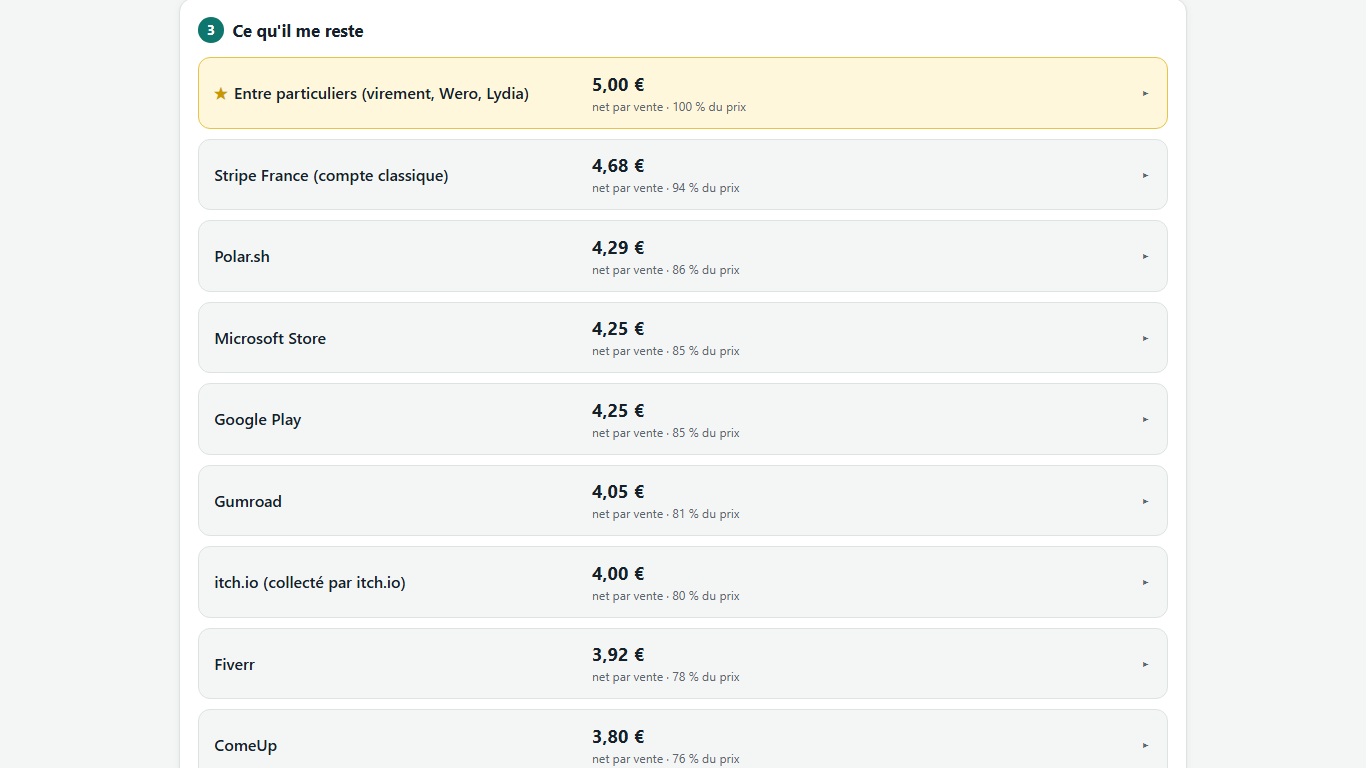
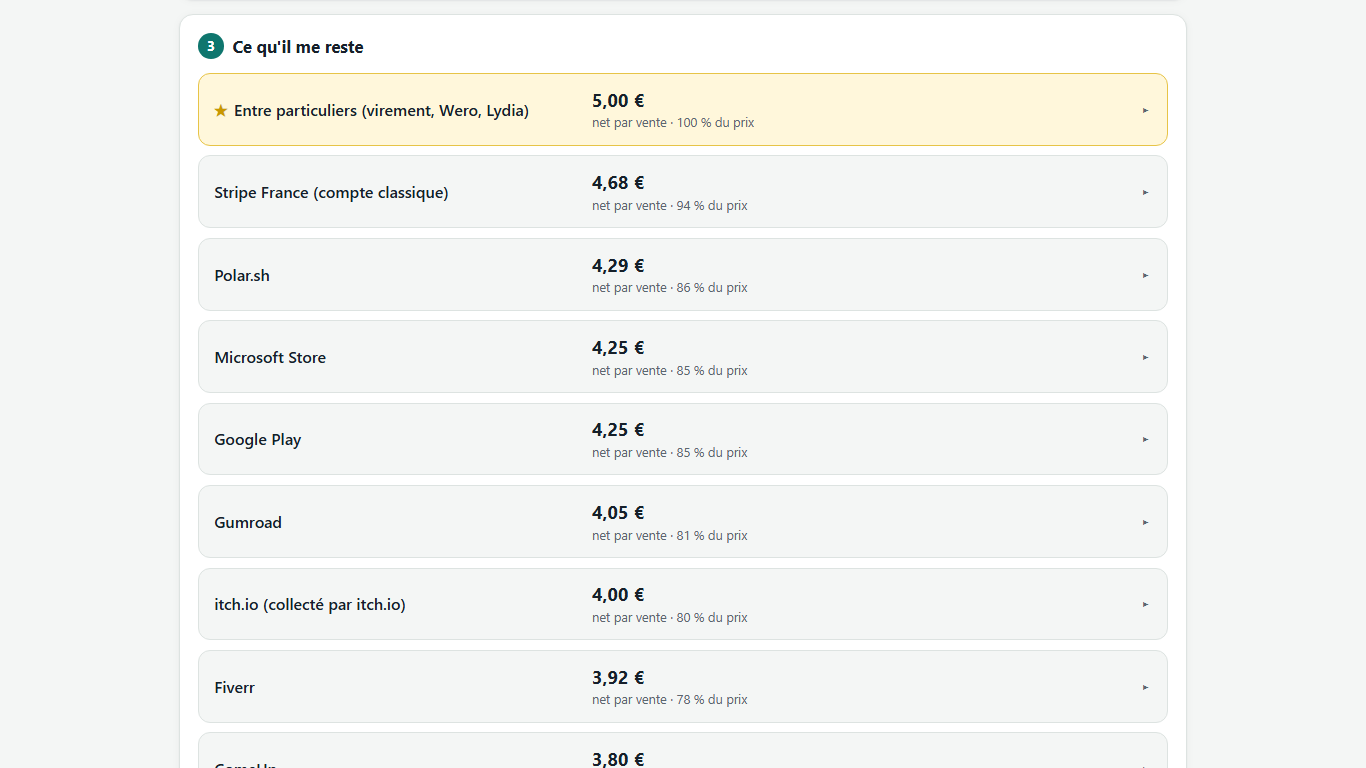
v2026-10-02b : correctifs après tests de bout en bout
- [hidden] respecté malgré les classes d'affichage (boutons d'achat masqués en édition complète, champs mensuels masqués en édition gratuite)
- build.py : vide docs/ sans le supprimer (serveur local)
- avertissement prix trop bas, rappel du volume annuel sous les résultats
- attributs name sur tous les champs, cibles tactiles et polices mobiles agrandies, résumé sur une colonne en mobile

diff --git a/app/app.js b/app/app.js
@@ -105,7 +105,7 @@
     const r = rates();
     const html = r.platforms.filter((p) => state.selected.includes(p.id) && (p.options || []).length).map((p) => `
       <div class="option-row"><strong>${esc(p.name)}</strong> ${p.options.map((o) => `
-        <label><input type="checkbox" data-platform="${p.id}" data-option="${o.id}" ${state.options[p.id][o.id] ? 'checked' : ''}> ${esc(o.label)}</label>`).join('')}</div>`).join('');
+        <label><input type="checkbox" name="opt-${p.id}-${o.id}" data-platform="${p.id}" data-option="${o.id}" ${state.options[p.id][o.id] ? 'checked' : ''}> ${esc(o.label)}</label>`).join('')}</div>`).join('');
     $('platformOptions').innerHTML = html;
     $('platformOptions').querySelectorAll('input').forEach((inp) => inp.addEventListener('change', () => {
       state.options[inp.dataset.platform][inp.dataset.option] = inp.checked; renderAll();
@@ -175,6 +175,7 @@
       if (p.withdrawal.minimum && C.toEur(p.withdrawal.minimum, p.withdrawal.minimumCurrency, r.usdToEur) > (monthly ? m.received : s.received) && (monthly ? m.received : s.received) > 0) {
         warn.push(`Seuil de retrait ${p.withdrawal.minimum} ${p.withdrawal.minimumCurrency === 'USD' ? '$' : '€'} : l'argent attend d'atteindre le seuil.`);
       }
+      if (s.price > 0 && s.net <= 0) warn.push('Prix trop bas pour cette plateforme : les frais dépassent ce que tu toucherais.');
       if (!p.verified) warn.push('Taux non vérifiés dans l\'étude.');
       if (p.estimated) warn.push('Estimation pour : ' + p.estimated.join(', ') + '.');
       return `<details class="result${best ? ' best' : ''}" ${results.length === 1 ? 'open' : ''}>
@@ -185,8 +186,9 @@
           <p class="hint">${esc(p.note)} Retrait : ${esc(p.withdrawal.label)}.${warn.length ? ' <span class="warn">' + esc(warn.join(' ')) + '</span>' : ''}</p>
         </div></details>`;
     }).join('');
+    const annual = state.price * Math.max(1, state.nSales) * 12;
     $('resultsHint').innerHTML = full
-      ? 'Impôt et prélèvements : estimés à ce rythme de ventes sur douze mois (abattement minimum de 305 € appliqué). Sur le mois : les frais fixes de retrait et les abonnements s\'ajoutent.'
+      ? `À ce rythme (${state.nSales} vente${state.nSales > 1 ? 's' : ''} par mois), tu encaisses ${eur(annual)} par an : l'impôt et les prélèvements sont estimés sur cette base, avec l'abattement minimum de 305 €. Sur le mois : les frais fixes de retrait et les abonnements s'ajoutent.`
       : `Hors frais fixes de retrait, cotisations et impôt. La <a href="${esc(buyUrl())}" target="_blank" rel="noopener">version complète</a> compare toutes les plateformes et ajoute ton statut.`;
   }
 
@@ -238,7 +240,7 @@
   function renderSettings() {
     const r = rates();
     $('usdToEur').value = r.usdToEur; $('forceGross').checked = r.forceGross;
-    const numField = (label, path, value, step, unit) => `<label class="s-field"><span>${label}</span><span class="input-unit"><input type="number" step="${step}" min="0" data-path="${path}" value="${value}"><em>${unit}</em></span></label>`;
+    const numField = (label, path, value, step, unit) => `<label class="s-field"><span>${label}</span><span class="input-unit"><input type="number" step="${step}" min="0" name="${path}" data-path="${path}" value="${value}"><em>${unit}</em></span></label>`;
     $('platformSettings').innerHTML = r.platforms.map((p) => `<div class="s-block"><h4>${esc(p.name)}</h4>
       ${numField('Commission', `platforms.${p.id}.pct`, p.pct, '0.1', '%')}
       ${numField('Fixe par vente', `platforms.${p.id}.fixed`, p.fixed, '0.01', p.fixedCurrency === 'USD' ? '$' : '€')}

diff --git a/docs/app.js b/docs/app.js
@@ -105,7 +105,7 @@
     const r = rates();
     const html = r.platforms.filter((p) => state.selected.includes(p.id) && (p.options || []).length).map((p) => `
       <div class="option-row"><strong>${esc(p.name)}</strong> ${p.options.map((o) => `
-        <label><input type="checkbox" data-platform="${p.id}" data-option="${o.id}" ${state.options[p.id][o.id] ? 'checked' : ''}> ${esc(o.label)}</label>`).join('')}</div>`).join('');
+        <label><input type="checkbox" name="opt-${p.id}-${o.id}" data-platform="${p.id}" data-option="${o.id}" ${state.options[p.id][o.id] ? 'checked' : ''}> ${esc(o.label)}</label>`).join('')}</div>`).join('');
     $('platformOptions').innerHTML = html;
     $('platformOptions').querySelectorAll('input').forEach((inp) => inp.addEventListener('change', () => {
       state.options[inp.dataset.platform][inp.dataset.option] = inp.checked; renderAll();
@@ -175,6 +175,7 @@
       if (p.withdrawal.minimum && C.toEur(p.withdrawal.minimum, p.withdrawal.minimumCurrency, r.usdToEur) > (monthly ? m.received : s.received) && (monthly ? m.received : s.received) > 0) {
         warn.push(`Seuil de retrait ${p.withdrawal.minimum} ${p.withdrawal.minimumCurrency === 'USD' ? '$' : '€'} : l'argent attend d'atteindre le seuil.`);
       }
+      if (s.price > 0 && s.net <= 0) warn.push('Prix trop bas pour cette plateforme : les frais dépassent ce que tu toucherais.');
       if (!p.verified) warn.push('Taux non vérifiés dans l\'étude.');
       if (p.estimated) warn.push('Estimation pour : ' + p.estimated.join(', ') + '.');
       return `<details class="result${best ? ' best' : ''}" ${results.length === 1 ? 'open' : ''}>
@@ -185,8 +186,9 @@
           <p class="hint">${esc(p.note)} Retrait : ${esc(p.withdrawal.label)}.${warn.length ? ' <span class="warn">' + esc(warn.join(' ')) + '</span>' : ''}</p>
         </div></details>`;
     }).join('');
+    const annual = state.price * Math.max(1, state.nSales) * 12;
     $('resultsHint').innerHTML = full
-      ? 'Impôt et prélèvements : estimés à ce rythme de ventes sur douze mois (abattement minimum de 305 € appliqué). Sur le mois : les frais fixes de retrait et les abonnements s\'ajoutent.'
+      ? `À ce rythme (${state.nSales} vente${state.nSales > 1 ? 's' : ''} par mois), tu encaisses ${eur(annual)} par an : l'impôt et les prélèvements sont estimés sur cette base, avec l'abattement minimum de 305 €. Sur le mois : les frais fixes de retrait et les abonnements s'ajoutent.`
       : `Hors frais fixes de retrait, cotisations et impôt. La <a href="${esc(buyUrl())}" target="_blank" rel="noopener">version complète</a> compare toutes les plateformes et ajoute ton statut.`;
   }
 
@@ -238,7 +240,7 @@
   function renderSettings() {
     const r = rates();
     $('usdToEur').value = r.usdToEur; $('forceGross').checked = r.forceGross;
-    const numField = (label, path, value, step, unit) => `<label class="s-field"><span>${label}</span><span class="input-unit"><input type="number" step="${step}" min="0" data-path="${path}" value="${value}"><em>${unit}</em></span></label>`;
+    const numField = (label, path, value, step, unit) => `<label class="s-field"><span>${label}</span><span class="input-unit"><input type="number" step="${step}" min="0" name="${path}" data-path="${path}" value="${value}"><em>${unit}</em></span></label>`;
     $('platformSettings').innerHTML = r.platforms.map((p) => `<div class="s-block"><h4>${esc(p.name)}</h4>
       ${numField('Commission', `platforms.${p.id}.pct`, p.pct, '0.1', '%')}
       ${numField('Fixe par vente', `platforms.${p.id}.fixed`, p.fixed, '0.01', p.fixedCurrency === 'USD' ? '$' : '€')}

diff --git a/app/styles.css b/app/styles.css
@@ -16,6 +16,7 @@
   --accent: #2dd4bf; --accent-ink: #062b27; --accent-soft: #11332f; --best: #2b2816; --best-line: #8a7a2a; --shadow: none;
 }
 * { box-sizing: border-box; }
+[hidden] { display: none !important; }
 html { color-scheme: light dark; }
 body { margin: 0; font-family: var(--font); background: var(--bg); color: var(--text); line-height: 1.45; -webkit-text-size-adjust: 100%; }
 a { color: var(--accent); }
@@ -69,8 +70,8 @@ button:disabled { opacity: .55; cursor: not-allowed; }
 .platforms legend { color: var(--muted); font-size: .9rem; padding: 0; margin-bottom: .5rem; }
 .chips { display: grid; gap: .6rem; }
 .chip-group { display: flex; flex-wrap: wrap; align-items: center; gap: .4rem; }
-.chip-group-label { font-size: .78rem; color: var(--muted); min-width: 8.5rem; }
-.chip { display: inline-flex; align-items: center; gap: .4rem; padding: .35rem .7rem; border: 1px solid var(--line); border-radius: 999px; font-size: .88rem; cursor: pointer; background: var(--bg); }
+.chip-group-label { font-size: .8rem; color: var(--muted); min-width: 8.5rem; }
+.chip { display: inline-flex; align-items: center; gap: .4rem; padding: .45rem .8rem; border: 1px solid var(--line); border-radius: 999px; font-size: .88rem; cursor: pointer; background: var(--bg); }
 .chip.on { background: var(--accent-soft); border-color: var(--accent); color: var(--accent); font-weight: 600; }
 .chip input { position: absolute; opacity: 0; width: 1px; height: 1px; }
 .chip small { color: var(--muted); font-weight: 400; }
@@ -88,7 +89,7 @@ button:disabled { opacity: .55; cursor: not-allowed; }
 .result > summary > span { display: flex; flex-direction: column; }
 .result > summary > span.r-name { flex-direction: row; align-items: center; gap: .4rem; font-weight: 600; }
 .result > summary > span.r-net b, .result > summary > span.r-month b { font-size: 1.15rem; }
-.result > summary small { color: var(--muted); font-size: .76rem; }
+.result > summary small { color: var(--muted); font-size: .8rem; }
 .star { color: #c99700; }
 .r-body { padding: 0 .95rem .9rem; display: grid; gap: .6rem; }
 .lines { width: 100%; border-collapse: collapse; font-size: .9rem; }
@@ -117,7 +118,7 @@ button:disabled { opacity: .55; cursor: not-allowed; }
 .s-field > span:first-child { color: var(--muted); }
 .s-field input { padding: .35rem .5rem; }
 
-footer { max-width: 1040px; margin: 0 auto; padding: 0 16px 32px; color: var(--muted); font-size: .8rem; }
+footer { max-width: 1040px; margin: 0 auto; padding: 0 16px 32px; color: var(--muted); font-size: .82rem; }
 footer p { margin: .5rem 0; }
 
 dialog { border: 1px solid var(--line); border-radius: var(--radius); background: var(--card); color: var(--text); padding: 22px; max-width: 460px; width: calc(100% - 32px); }
@@ -126,8 +127,9 @@ dialog h2 { margin-bottom: .4rem; }
 dialog form { display: grid; gap: .8rem; }
 
 @media (max-width: 640px) {
-  .result > summary { grid-template-columns: 1fr 1fr; }
+  .result > summary { grid-template-columns: 1fr; gap: .4rem; }
   .result > summary > span.r-name { grid-column: 1 / -1; }
+  .result > summary > span.r-net, .result > summary > span.r-month { flex-direction: row; align-items: baseline; gap: .5rem; flex-wrap: wrap; }
   .result > summary::after { display: none; }
   .chip-group-label { min-width: 100%; }
   .s-field { grid-template-columns: 1fr; }

diff --git a/docs/styles.css b/docs/styles.css
@@ -16,6 +16,7 @@
   --accent: #2dd4bf; --accent-ink: #062b27; --accent-soft: #11332f; --best: #2b2816; --best-line: #8a7a2a; --shadow: none;
 }
 * { box-sizing: border-box; }
+[hidden] { display: none !important; }
 html { color-scheme: light dark; }
 body { margin: 0; font-family: var(--font); background: var(--bg); color: var(--text); line-height: 1.45; -webkit-text-size-adjust: 100%; }
 a { color: var(--accent); }
@@ -69,8 +70,8 @@ button:disabled { opacity: .55; cursor: not-allowed; }
 .platforms legend { color: var(--muted); font-size: .9rem; padding: 0; margin-bottom: .5rem; }
 .chips { display: grid; gap: .6rem; }
 .chip-group { display: flex; flex-wrap: wrap; align-items: center; gap: .4rem; }
-.chip-group-label { font-size: .78rem; color: var(--muted); min-width: 8.5rem; }
-.chip { display: inline-flex; align-items: center; gap: .4rem; padding: .35rem .7rem; border: 1px solid var(--line); border-radius: 999px; font-size: .88rem; cursor: pointer; background: var(--bg); }
+.chip-group-label { font-size: .8rem; color: var(--muted); min-width: 8.5rem; }
+.chip { display: inline-flex; align-items: center; gap: .4rem; padding: .45rem .8rem; border: 1px solid var(--line); border-radius: 999px; font-size: .88rem; cursor: pointer; background: var(--bg); }
 .chip.on { background: var(--accent-soft); border-color: var(--accent); color: var(--accent); font-weight: 600; }
 .chip input { position: absolute; opacity: 0; width: 1px; height: 1px; }
 .chip small { color: var(--muted); font-weight: 400; }
@@ -88,7 +89,7 @@ button:disabled { opacity: .55; cursor: not-allowed; }
 .result > summary > span { display: flex; flex-direction: column; }
 .result > summary > span.r-name { flex-direction: row; align-items: center; gap: .4rem; font-weight: 600; }
 .result > summary > span.r-net b, .result > summary > span.r-month b { font-size: 1.15rem; }
-.result > summary small { color: var(--muted); font-size: .76rem; }
+.result > summary small { color: var(--muted); font-size: .8rem; }
 .star { color: #c99700; }
 .r-body { padding: 0 .95rem .9rem; display: grid; gap: .6rem; }
 .lines { width: 100%; border-collapse: collapse; font-size: .9rem; }
@@ -117,7 +118,7 @@ button:disabled { opacity: .55; cursor: not-allowed; }
 .s-field > span:first-child { color: var(--muted); }
 .s-field input { padding: .35rem .5rem; }
 
-footer { max-width: 1040px; margin: 0 auto; padding: 0 16px 32px; color: var(--muted); font-size: .8rem; }
+footer { max-width: 1040px; margin: 0 auto; padding: 0 16px 32px; color: var(--muted); font-size: .82rem; }
 footer p { margin: .5rem 0; }
 
 dialog { border: 1px solid var(--line); border-radius: var(--radius); background: var(--card); color: var(--text); padding: 22px; max-width: 460px; width: calc(100% - 32px); }
@@ -126,8 +127,9 @@ dialog h2 { margin-bottom: .4rem; }
 dialog form { display: grid; gap: .8rem; }
 
 @media (max-width: 640px) {
-  .result > summary { grid-template-columns: 1fr 1fr; }
+  .result > summary { grid-template-columns: 1fr; gap: .4rem; }
   .result > summary > span.r-name { grid-column: 1 / -1; }
+  .result > summary > span.r-net, .result > summary > span.r-month { flex-direction: row; align-items: baseline; gap: .5rem; flex-wrap: wrap; }
   .result > summary::after { display: none; }
   .chip-group-label { min-width: 100%; }
   .s-field { grid-template-columns: 1fr; }

diff --git a/docs/sw.js b/docs/sw.js
@@ -1,5 +1,5 @@
 /* Reste Net — service worker : cache-first, mise à jour en arrière-plan. La version est remplacée par build.py. */
-const CACHE = 'reste-net-2026-10-02';
+const CACHE = 'reste-net-2026-10-02b';
 const ASSETS = ['./', './index.html', './store.html', './styles.css', './rates.js', './calc.js', './app.js', './manifest.webmanifest', './manifest-store.webmanifest', './icons/icon-192.png', './icons/icon-512.png', './icons/icon-maskable-512.png'];
 
 self.addEventListener('install', (e) => {

diff --git a/app/rates.js b/app/rates.js
@@ -6,7 +6,7 @@
      'payout' = montant reversé (la plateforme est vendeur officiel / Merchant of Record). */
 
 window.RESTE_NET_RATES = {
-  version: '2026-10-02',
+  version: '2026-10-02b',
   verifiedOn: '24/09/2026',
   usdToEur: 0.90,
 

diff --git a/docs/rates.js b/docs/rates.js
@@ -6,7 +6,7 @@
      'payout' = montant reversé (la plateforme est vendeur officiel / Merchant of Record). */
 
 window.RESTE_NET_RATES = {
-  version: '2026-10-02',
+  version: '2026-10-02b',
   verifiedOn: '24/09/2026',
   usdToEur: 0.90,
 

diff --git a/build.py b/build.py
@@ -48,10 +48,19 @@ def single_file(edition: str) -> str:
     return html
 
 
+def clear_dir(folder: Path) -> None:
+    """Vide le dossier sans le supprimer (un serveur local peut l'avoir comme répertoire courant)."""
+    folder.mkdir(exist_ok=True)
+    for child in folder.iterdir():
+        if child.is_dir():
+            shutil.rmtree(child)
+        else:
+            child.unlink()
+
+
 def build_site() -> None:
-    if DOCS.exists():
-        shutil.rmtree(DOCS)
-    shutil.copytree(APP, DOCS, ignore=shutil.ignore_patterns('__pycache__'))
+    clear_dir(DOCS)
+    shutil.copytree(APP, DOCS, dirs_exist_ok=True, ignore=shutil.ignore_patterns('__pycache__'))
     ver = version()
     (DOCS / 'sw.js').write_text(read('sw.js').replace('__VERSION__', ver), encoding='utf-8')
     manifest = read('manifest.webmanifest')
